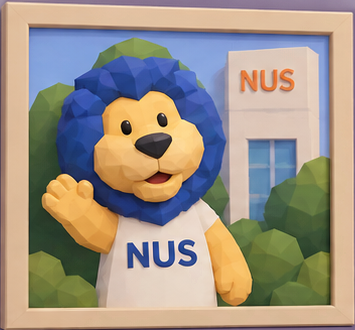
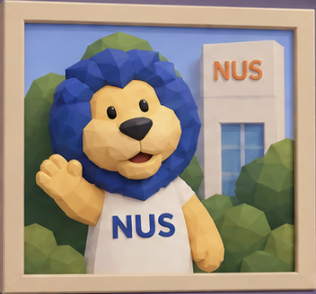
fix: brighten room and restore original tiles

diff --git a/src/components/scene/room/CareerJourney.jsx b/src/components/scene/room/CareerJourney.jsx
@@ -13,28 +13,25 @@ function Box({ size, color, hovered = false, ...props }) {
 }
 
 const careerLogos = {
-  ey: { name: 'experience-logo-ey', url: roomAsset('ey-logo.png'), scale: [0.5, 0.5, 1] },
-  shopee: { name: 'experience-logo-shopee', url: roomAsset('shopee-logo.png'), scale: [0.43, 0.52, 1] },
-  uob: { name: 'experience-logo-uob', url: roomAsset('uob-logo.png'), scale: [0.68, 0.3, 1] },
+  ey: { name: 'experience-logo-ey', url: roomAsset('ey-logo.png') },
+  shopee: { name: 'experience-logo-shopee', url: roomAsset('shopee-logo.png') },
+  uob: { name: 'experience-logo-uob', url: roomAsset('uob-logo.png') },
 }
 
 export function CareerJourney({ items = [], onSelect } = {}) {
   return (
     <group name="experience-board" position={[0, 3.38, -5.28]}>
-      <Box size={[3.56, 1.56, 0.08]} color={palette.woodDark} />
-      <Box size={[3.36, 1.36, 0.025]} position={[0, 0, 0.055]} color={palette.cream} />
+      <Box size={[3.56, 1.56, 0.08]} color={palette.woodLight} />
+      <Box size={[3.36, 1.36, 0.025]} position={[0, 0, 0.055]} color={palette.warmWhite} />
       {items.map((item, index) => {
         const logo = careerLogos[item.id]
-        const [x, color] = [
-          [-1.08, palette.lightLavender], [0, palette.cream], [1.08, palette.purpleFurniture],
-        ][index]
+        const x = [-1.08, 0, 1.08][index]
         return (
           <group key={item.id} name="experience-card" position={[x, 0, 0.08]}>
             <PortfolioObject item={item} label={item.interactiveLabel} position={[0, 0, 0.03]} onSelect={onSelect}>
               {(hovered) => (
                 <group>
-                  <Box size={[0.82, 1.04, 0.022]} color={color} hovered={hovered} />
-                  <Image name={logo.name} url={logo.url} scale={logo.scale} position={[0, 0.03, 0.018]} transparent />
+                  <Image name={logo.name} url={logo.url} scale={[0.68, 0.68, 1]} position={[0, 0.03, 0.018]} />
                 </group>
               )}
             </PortfolioObject>

diff --git a/src/components/scene/room/SchoolLife.jsx b/src/components/scene/room/SchoolLife.jsx
@@ -6,7 +6,7 @@ import { roomAsset } from '../../../data/roomAssets'
 const schoolObjectVisuals = {
   'science-club': ({ hovered }) => <MascotCard name="school-science-mascot" url={roomAsset('nus-mascot.png')} scale={[0.72, 0.72, 1]} hovered={hovered} />,
   'rc4-flag': ({ hovered }) => <MascotCard name="school-rc4-orca" url={roomAsset('orca-frame.png')} scale={[0.72, 0.72, 1]} hovered={hovered} />,
-  ucla: ({ hovered }) => <MascotCard name="school-ucla-mascot" url={roomAsset('ucla-bruin.png')} scale={[0.88, 0.5, 1]} hovered={hovered} />,
+  ucla: ({ hovered }) => <MascotCard name="school-ucla-mascot" url={roomAsset('ucla-bruin.png')} scale={[0.72, 0.72, 1]} hovered={hovered} />,
 }
 
 const schoolObjectPositions = {

diff --git a/src/components/scene/Room.test.jsx b/src/components/scene/Room.test.jsx
@@ -99,6 +99,7 @@ test('renders the canonical hero objects inside their board and shelf groups exa
     expect(careerCards[index].querySelector(`group[name="${label}"]`)).not.toBeNull()
   })
   expect(container.querySelectorAll('mesh[name="experience-logo-ey"], mesh[name="experience-logo-shopee"], mesh[name="experience-logo-uob"]')).toHaveLength(3)
+  expect(Array.from(careerCards).every((card) => card.querySelectorAll('mesh').length === 1)).toBe(true)
 
   const schoolShelf = container.querySelector('group[name="school-shelf"]')
   expect(schoolShelf?.querySelectorAll('group[name="Science Club"], group[name="RC4 Flag"], group[name="UCLA Exchange"]')).toHaveLength(3)

diff --git a/src/components/scene/room/materials.test.js b/src/components/scene/room/materials.test.js
@@ -2,9 +2,11 @@ import { expect, test } from 'vitest'
 import { palette } from './materials'
 
 test('uses the requested cozy lavender room palette', () => {
-  expect(palette.lavender).toBe('#A98BC3')
-  expect(palette.lightLavender).toBe('#BDA6D3')
-  expect(palette.lavenderShadow).toBe('#8D71A6')
+  expect(palette.wall).toBe('#AD93C0')
+  expect(palette.wallLight).toBe('#C3ADD3')
+  expect(palette.lavender).toBe('#AD93C0')
+  expect(palette.lightLavender).toBe('#C3ADD3')
+  expect(palette.lavenderShadow).toBe('#9E84B1')
   expect(palette.purpleFurniture).toBe('#9673B0')
   expect(palette.cushion).toBe('#A77FC2')
   expect(palette.cream).toBe('#EFE4D7')

diff --git a/src/components/scene/room/materials.jsx b/src/components/scene/room/materials.jsx
@@ -1,7 +1,7 @@
 export const palette = {
-  wall: '#A98BC3',
-  wallLight: '#BDA6D3',
-  wallDark: '#8D71A6',
+  wall: '#AD93C0',
+  wallLight: '#C3ADD3',
+  wallDark: '#9E84B1',
   chair: '#9673B0',
   cushion: '#A77FC2',
   cream: '#EFE4D7',
@@ -10,11 +10,11 @@ export const palette = {
   woodLight: '#B9815D',
   green: '#718363',
   gold: '#D2A855',
-  lavender: '#A98BC3',
-  lavenderShadow: '#8D71A6',
-  lightLavender: '#BDA6D3',
+  lavender: '#AD93C0',
+  lavenderShadow: '#9E84B1',
+  lightLavender: '#C3ADD3',
   purpleFurniture: '#9673B0',
-  woodDark: '#8D71A6',
+  woodDark: '#9E84B1',
   white: '#F8F1E8',
   ink: '#28252d',
   blush: '#A77FC2',

diff --git a/src/components/scene/Lighting.test.jsx b/src/components/scene/Lighting.test.jsx
@@ -12,4 +12,7 @@ test('provides warm practical lights beneath a shadowed key light', () => {
 
   expect(tree.filter((node) => node.type === 'pointLight')).toHaveLength(2)
   expect(tree.find((node) => node.type === 'directionalLight').props.castShadow).toBe(true)
+  expect(tree.find((node) => node.type === 'ambientLight').props.intensity).toBeGreaterThanOrEqual(0.8)
+  expect(tree.find((node) => node.type === 'hemisphereLight').props.groundColor).toBe('#C3ADD3')
+  expect(tree.find((node) => node.type === 'hemisphereLight').props.intensity).toBeGreaterThanOrEqual(0.9)
 })

diff --git a/src/App.jsx b/src/App.jsx
@@ -38,7 +38,8 @@ export default function App() {
 
   return (
     <main className="app-shell">
-      <Canvas
+    <Canvas
+      flat
         camera={{
           fov: overviewCamera.fov,
           near: 0.1,
@@ -50,7 +51,7 @@ export default function App() {
         gl={{ alpha: false, antialias: true }}
         shadows="basic"
       >
-        <color attach="background" args={['#b8aec8']} />
+        <color attach="background" args={['#AD93C0']} />
         <Lighting />
         <Room
           catReaction={catReaction}

diff --git a/src/components/scene/Lighting.jsx b/src/components/scene/Lighting.jsx
@@ -4,11 +4,11 @@ import { researchLightPosition } from '../../data/roomPolish'
 export default function Lighting() {
   return (
     <>
-      <ambientLight color="#fff4e8" intensity={0.42} />
+      <ambientLight color="#fff8f3" intensity={0.95} />
       <hemisphereLight
-        color="#f5e8d8"
-        groundColor="#867895"
-        intensity={0.72}
+        color="#fff8f3"
+        groundColor="#C3ADD3"
+        intensity={1}
       />
       <directionalLight
         castShadow
